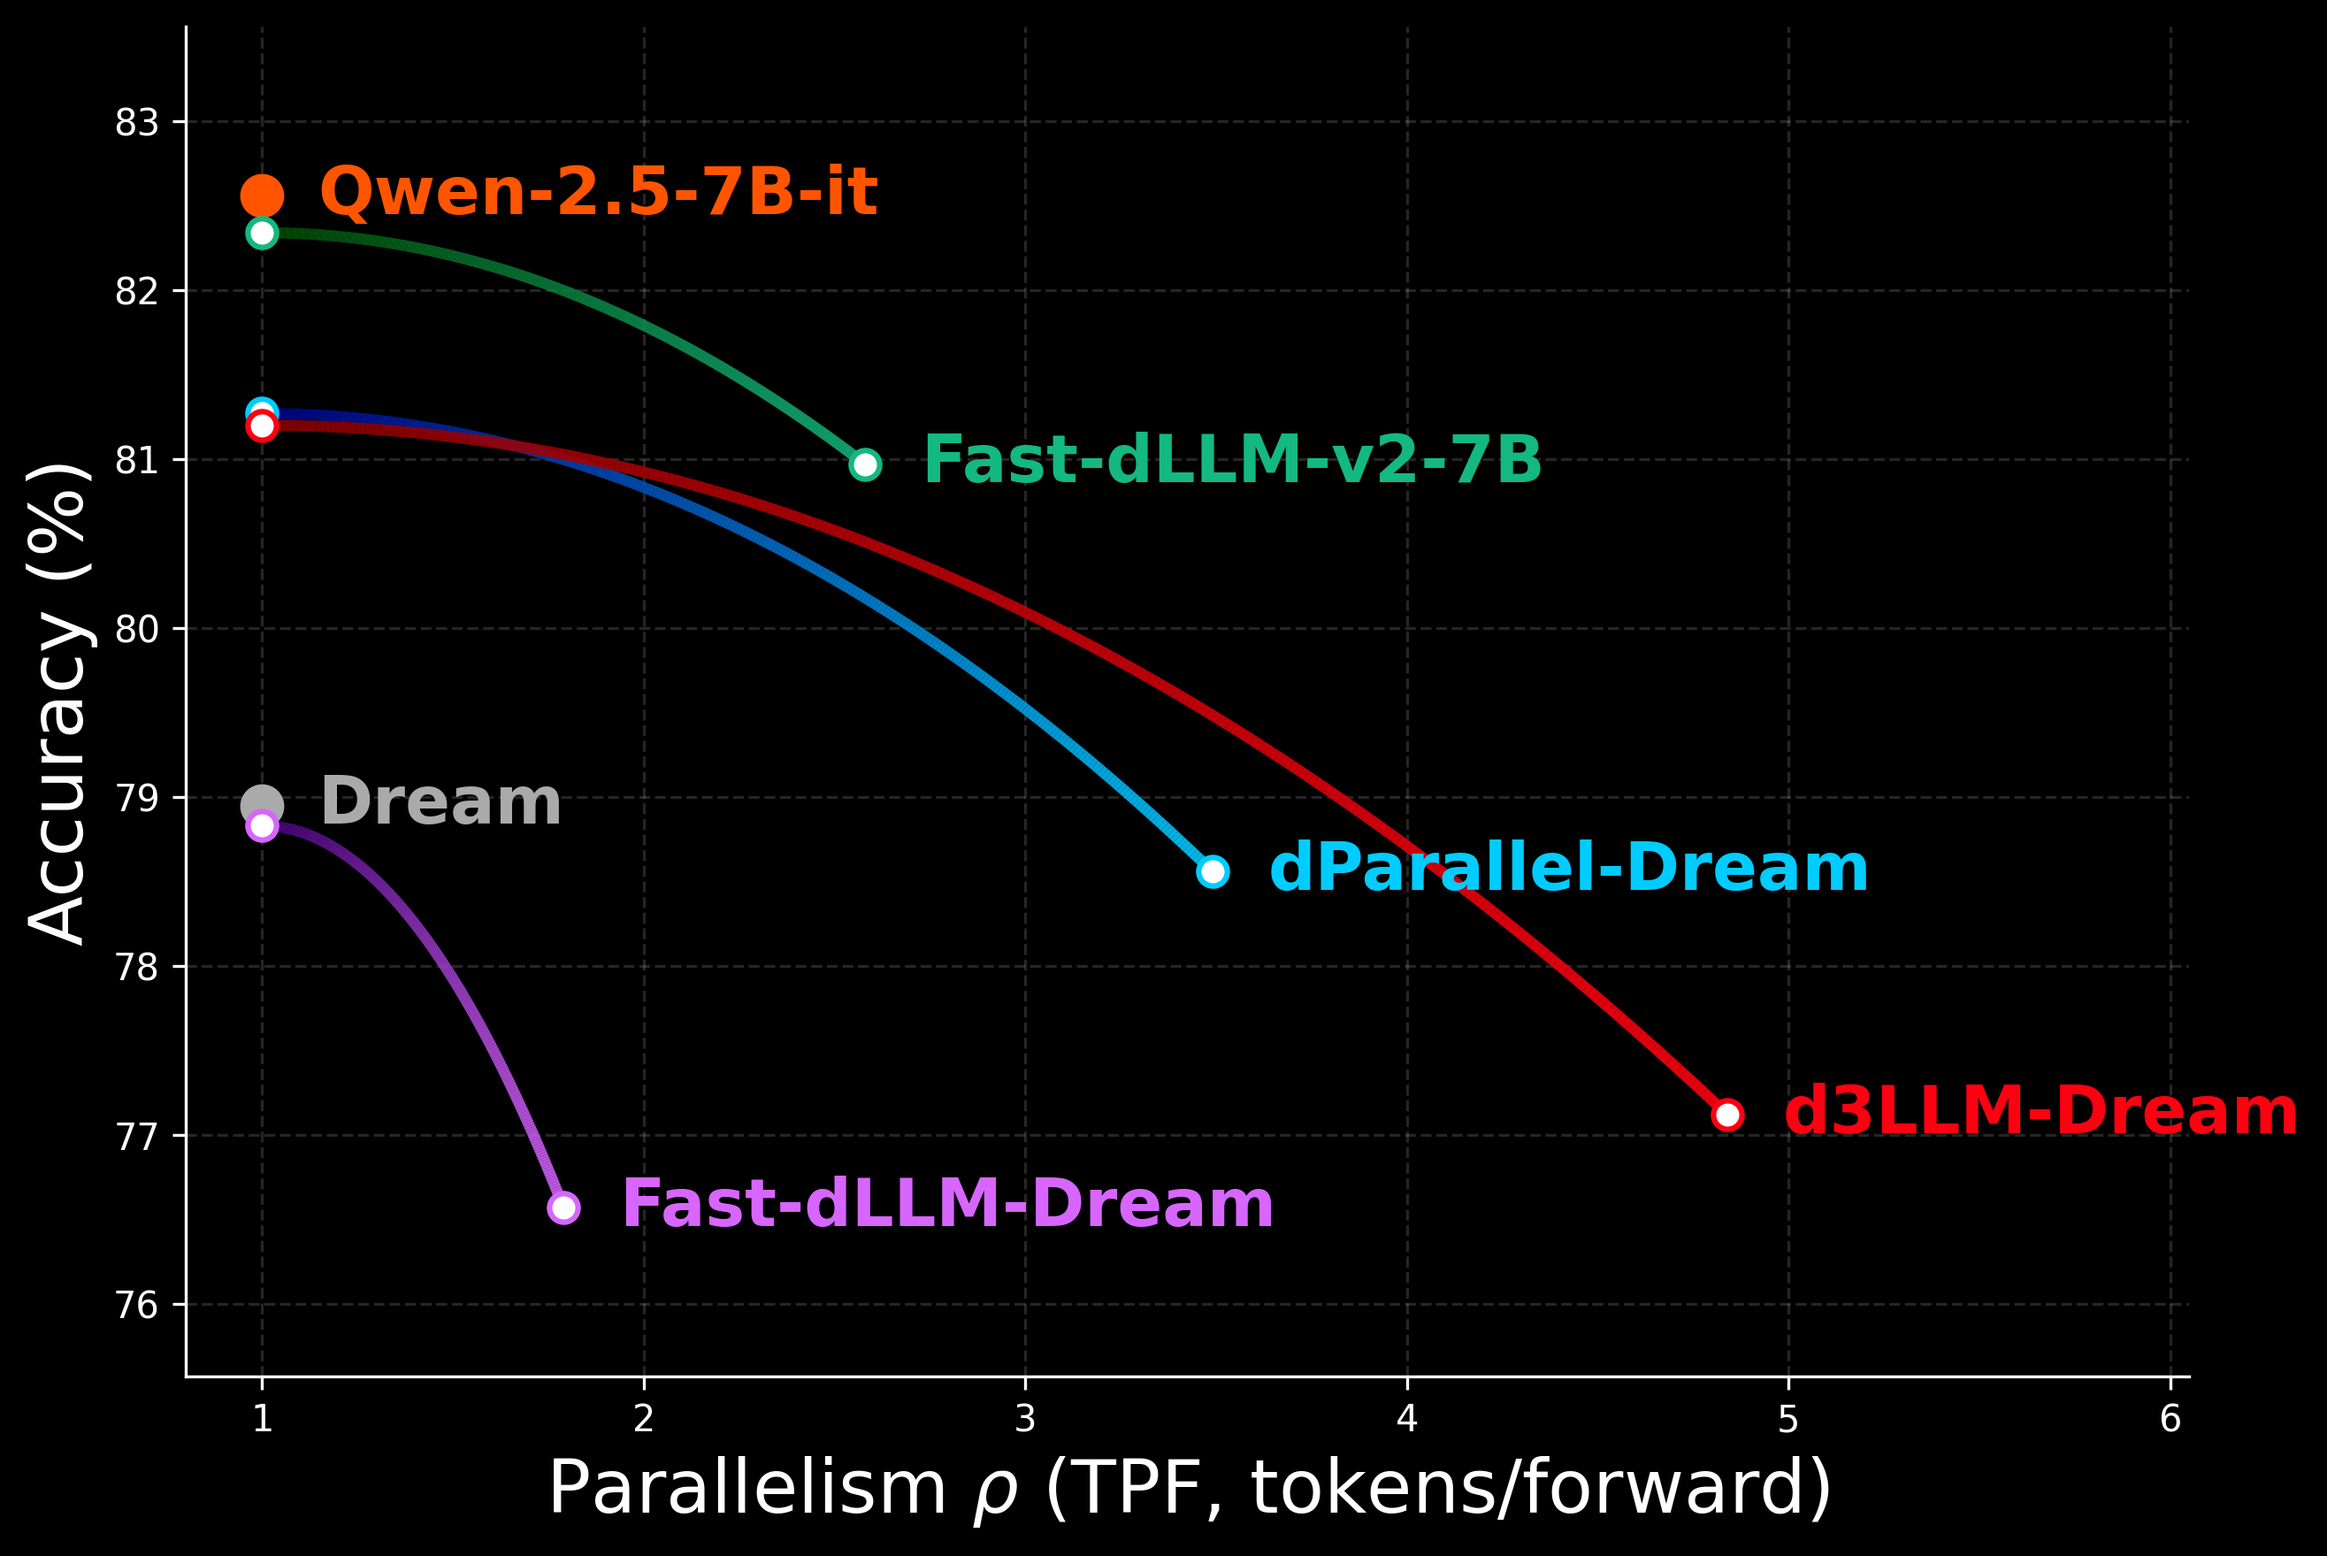
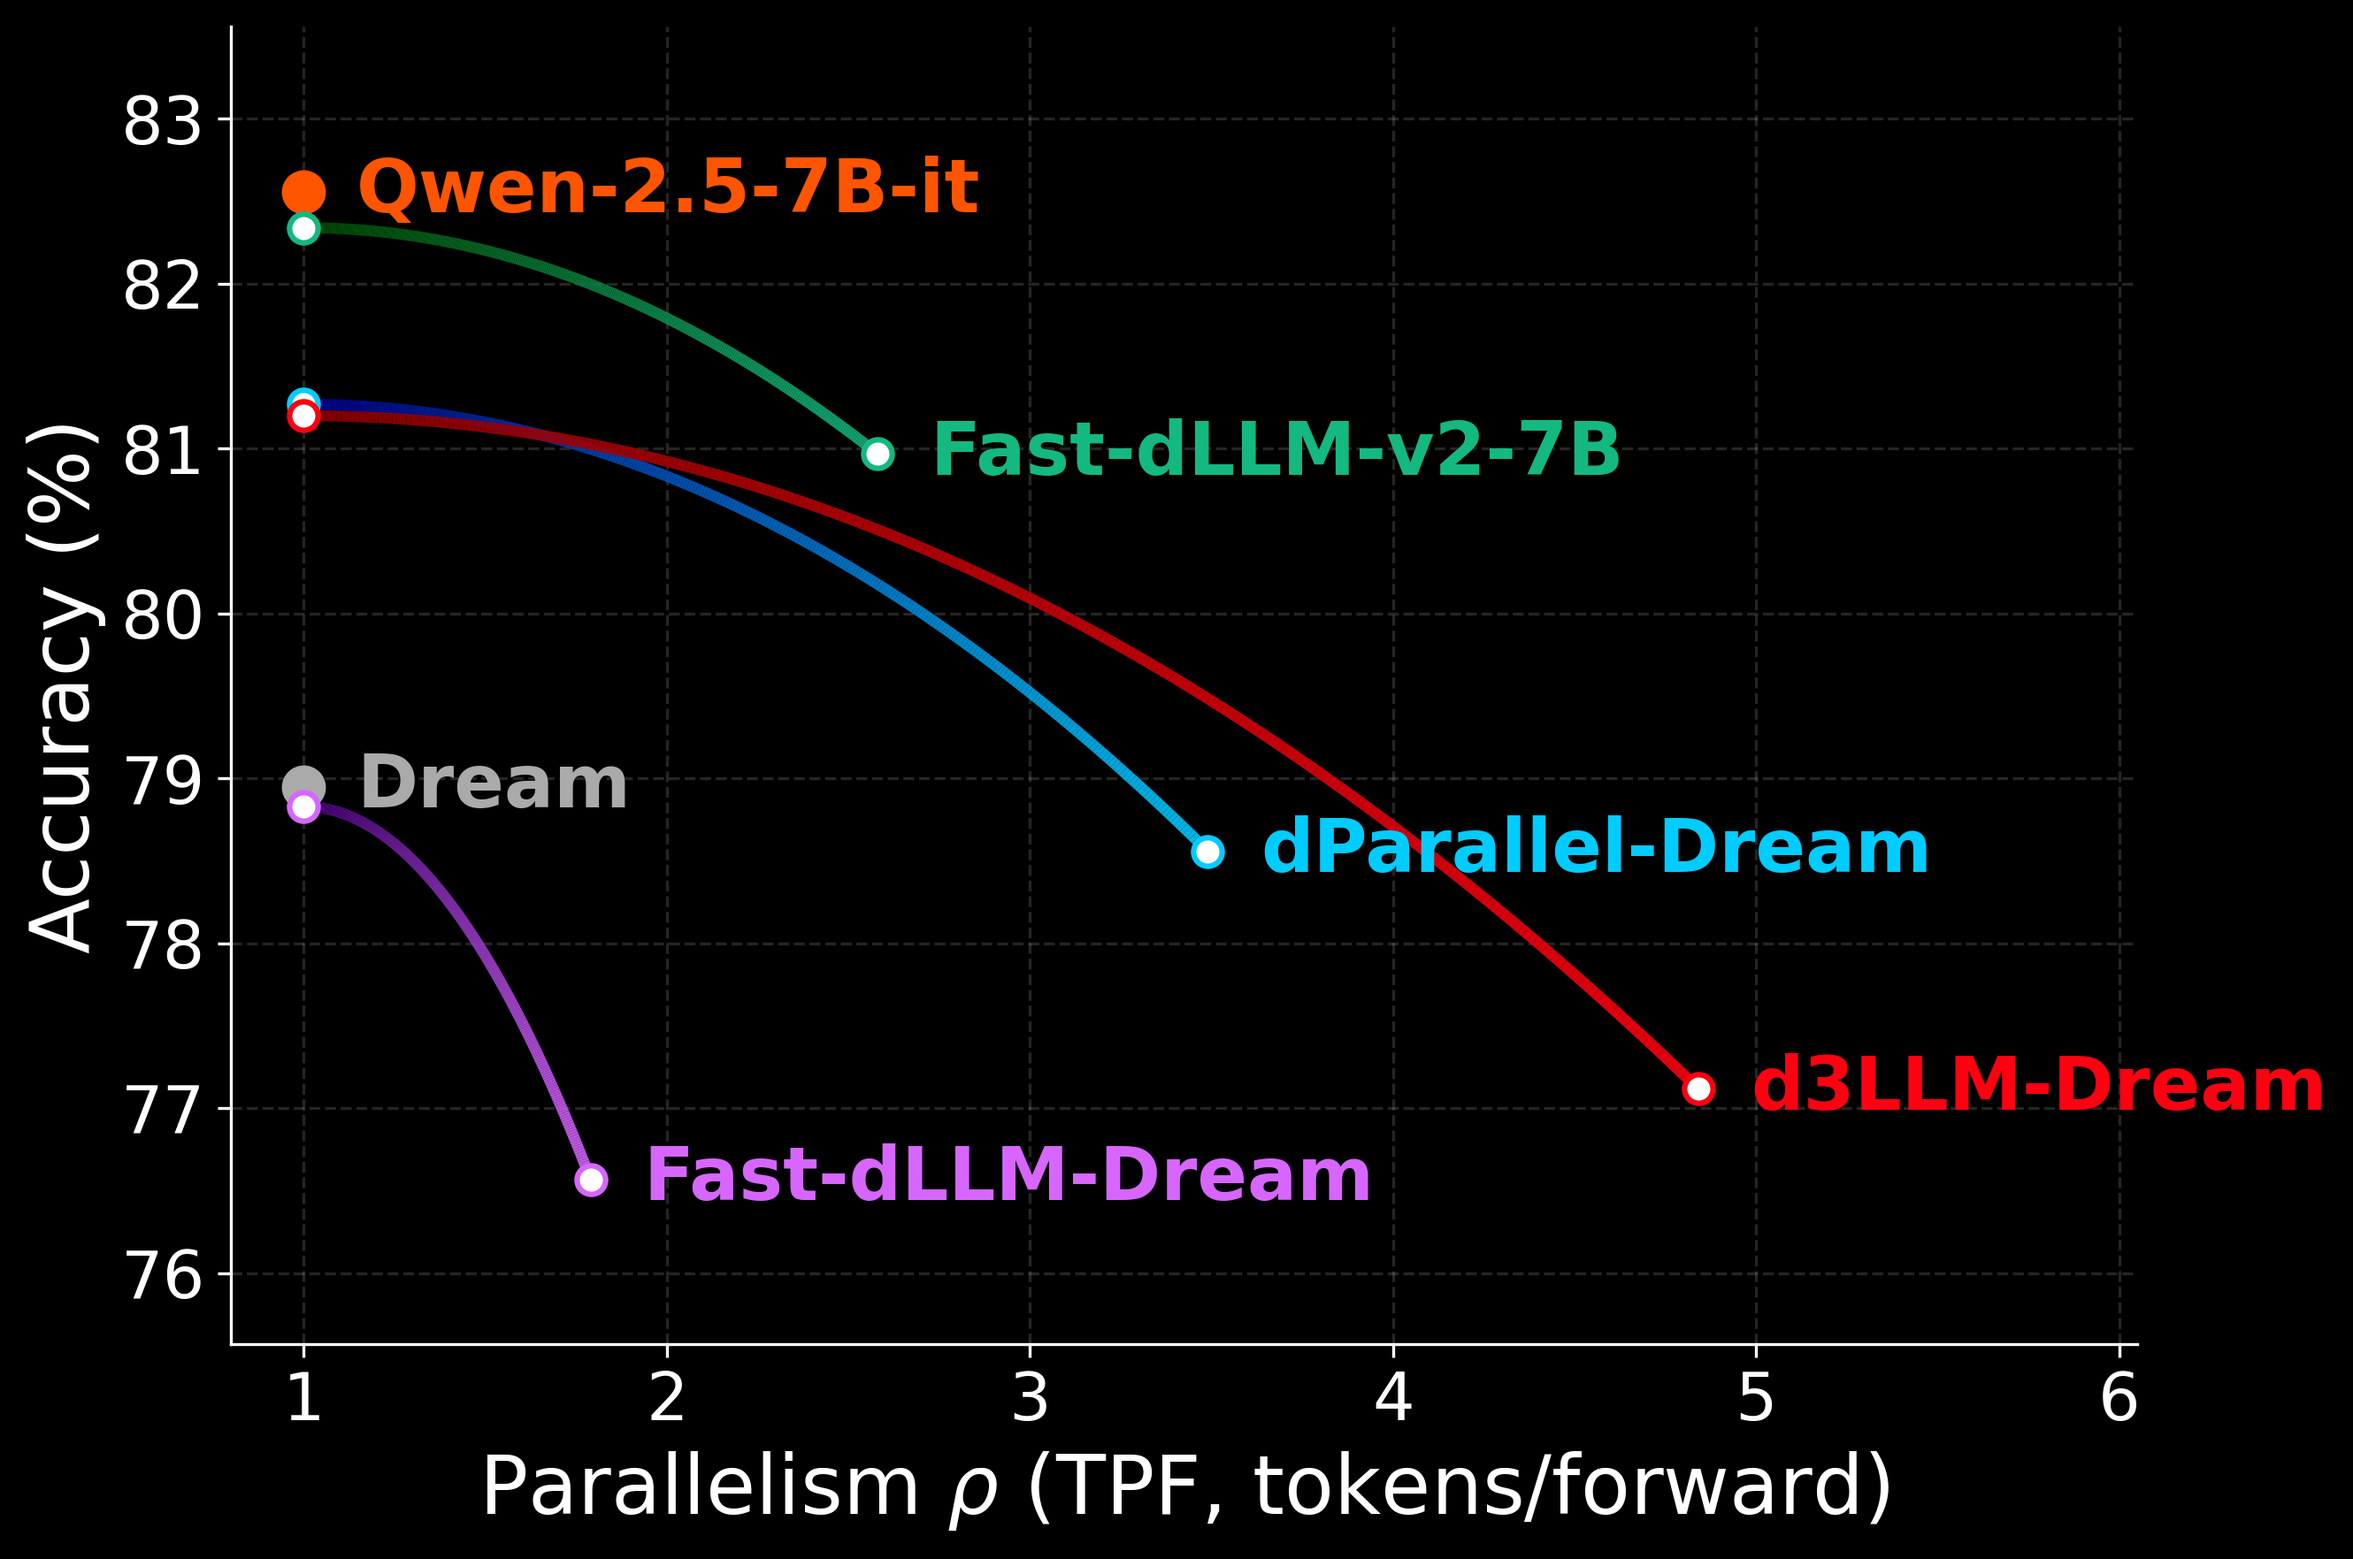
Further beautify figs

diff --git a/content/blogs/text-diffusion/index.md b/content/blogs/text-diffusion/index.md
@@ -292,13 +292,13 @@ Our experiments are conducted on three foundational diffusion models: LLaDA, Dre
 
 <figure>
 <div class="responsive-img-grid">
-  <img src="img/data_llada_aup_curve_gsm8k_cot.png" alt="LLaDA GSM8K-CoT" data-width="30.5">
-  <img src="img/data_llada_aup_curve_humaneval.png" alt="LLaDA HumanEval" data-width="33.5">
-  <img src="img/data_llada_aup_curve_mbpp.png" alt="LLaDA MBPP" data-width="31">
+  <img src="img/data_llada_aup_curve_gsm8k_cot.png" alt="LLaDA GSM8K-CoT" data-width="30.2">
+  <img src="img/data_llada_aup_curve_humaneval.png" alt="LLaDA HumanEval" data-width="33">
+  <img src="img/data_llada_aup_curve_mbpp.png" alt="LLaDA MBPP" data-width="31.2">
 </div>
 <div class="responsive-img-grid" style="margin-top: 20px;">
   <img src="img/data_llada_aup_curve_math.png" alt="LLaDA MATH" data-width="30">
-  <img src="img/data_llada_aup_curve_long-gsm8k.png" alt="LLaDA Long-GSM8K" data-width="30">
+  <img src="img/data_llada_aup_curve_long-gsm8k.png" alt="LLaDA Long-GSM8K" data-width="30.2">
 </div>
 <figcaption style="text-align: center; color: #808080; margin-top: 10px;">Figure 5: AUP curves for LLaDA-based models across five benchmark tasks (GSM8K-CoT, HumanEval, MBPP, MATH, and Long-GSM8K).</figcaption>
 </figure>
@@ -319,13 +319,13 @@ Our experiments are conducted on three foundational diffusion models: LLaDA, Dre
 
 <figure>
 <div class="responsive-img-grid">
-  <img src="img/data_dream_aup_curve_gsm8k_cot.png" alt="Dream GSM8K-CoT" data-width="30">
+  <img src="img/data_dream_aup_curve_gsm8k_cot.png" alt="Dream GSM8K-CoT" data-width="29.8">
   <img src="img/data_dream_aup_curve_humaneval_instruct.png" alt="Dream HumanEval_Instruct" data-width="30.5">
   <img src="img/data_dream_aup_curve_mbpp_instruct.png" alt="Dream MBPP_Instruct" data-width="30.2">
 </div>
 <div class="responsive-img-grid" style="margin-top: 20px;">
   <img src="img/data_dream_aup_curve_math.png" alt="Dream MATH" data-width="31.2">
-  <img src="img/data_dream_aup_curve_long-gsm8k.png" alt="Dream Long-GSM8K" data-width="30">
+  <img src="img/data_dream_aup_curve_long-gsm8k.png" alt="Dream Long-GSM8K" data-width="30.2">
 </div>
 <figcaption style="text-align: center; color: #808080; margin-top: 10px;">Figure 7: AUP curves for Dream-based models across five benchmark tasks (GSM8K-CoT, HumanEval_Instruct, MBPP_Instruct, MATH, and Long-GSM8K).</figcaption>
 </figure>
@@ -360,10 +360,10 @@ The experimental results also validate the reliability of our AUP metric. For ex
 
 <figure>
 <div class="responsive-img-grid">
-  <img src="img/data_dream_coder_aup_curve_humaneval.png" alt="Dream-Coder HumanEval" data-width="23">
-  <img src="img/data_dream_coder_aup_curve_humaneval+.png" alt="Dream-Coder HumanEval+" data-width="22.8">
-  <img src="img/data_dream_coder_aup_curve_mbpp.png" alt="Dream-Coder MBPP" data-width="24.3">
-  <img src="img/data_dream_coder_aup_curve_mbpp+.png" alt="Dream-Coder MBPP+" data-width="23">
+  <img src="img/data_dream_coder_aup_curve_humaneval.png" alt="Dream-Coder HumanEval" data-width="22.4">
+  <img src="img/data_dream_coder_aup_curve_humaneval+.png" alt="Dream-Coder HumanEval+" data-width="22.4">
+  <img src="img/data_dream_coder_aup_curve_mbpp.png" alt="Dream-Coder MBPP" data-width="25.4">
+  <img src="img/data_dream_coder_aup_curve_mbpp+.png" alt="Dream-Coder MBPP+" data-width="22.7">
 </div>
 <figcaption style="text-align: center; color: #808080; margin-top: 10px;">Figure 9: Evaluation for Coders across four coding benchmarks (HumanEval, HumanEval+, MBPP, MBPP+).</figcaption>
 </figure>
@@ -371,7 +371,7 @@ The experimental results also validate the reliability of our AUP metric. For ex
 <figure>
 <div class="responsive-img-grid">
   <img src="img/data_dream_coder_aup_histogram.png" alt="Dream-Coder AUP Histogram" data-width="53">
-  <img src="img/data_dream_coder_aup_radar.png" alt="Dream-Coder AUP Radar" data-width="41">
+  <img src="img/data_dream_coder_aup_radar.png" alt="Dream-Coder AUP Radar" data-width="40.6">
 </div>
 <figcaption style="text-align: center; color: #808080; margin-top: 10px;">Figure 10: AUP scores and radar chart comparing different Coder-based methods.</figcaption>
 </figure>
